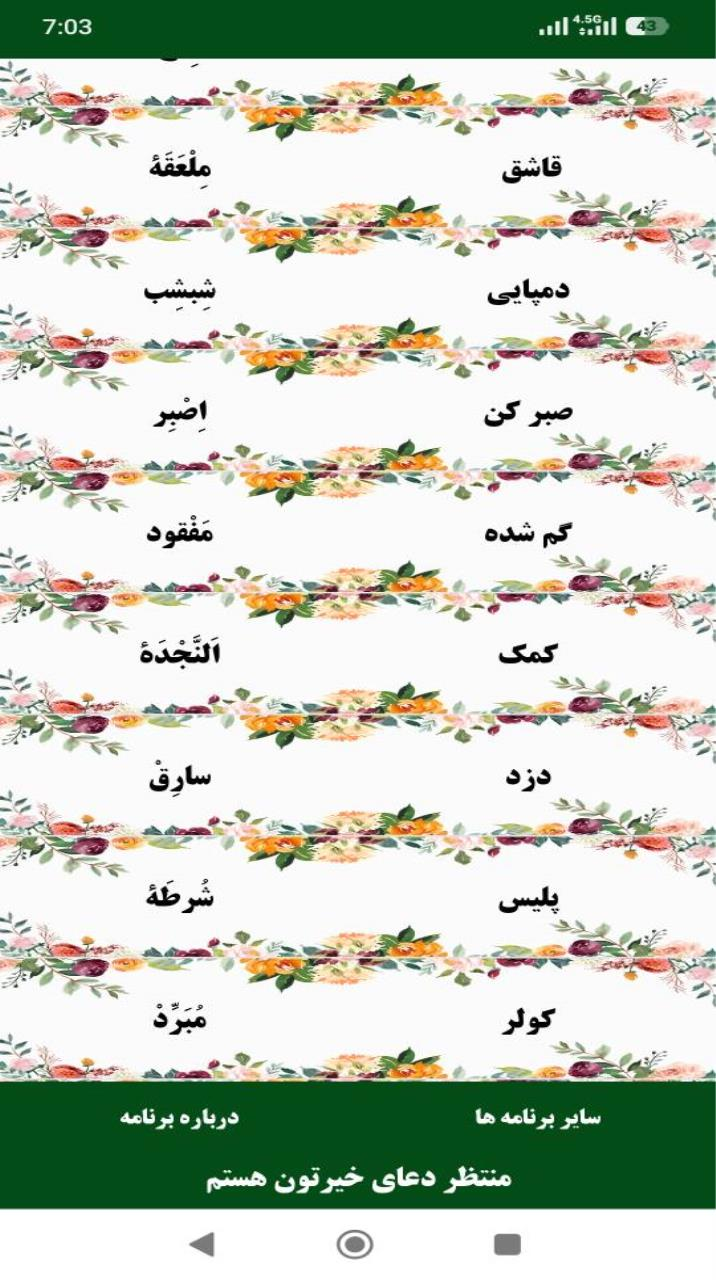
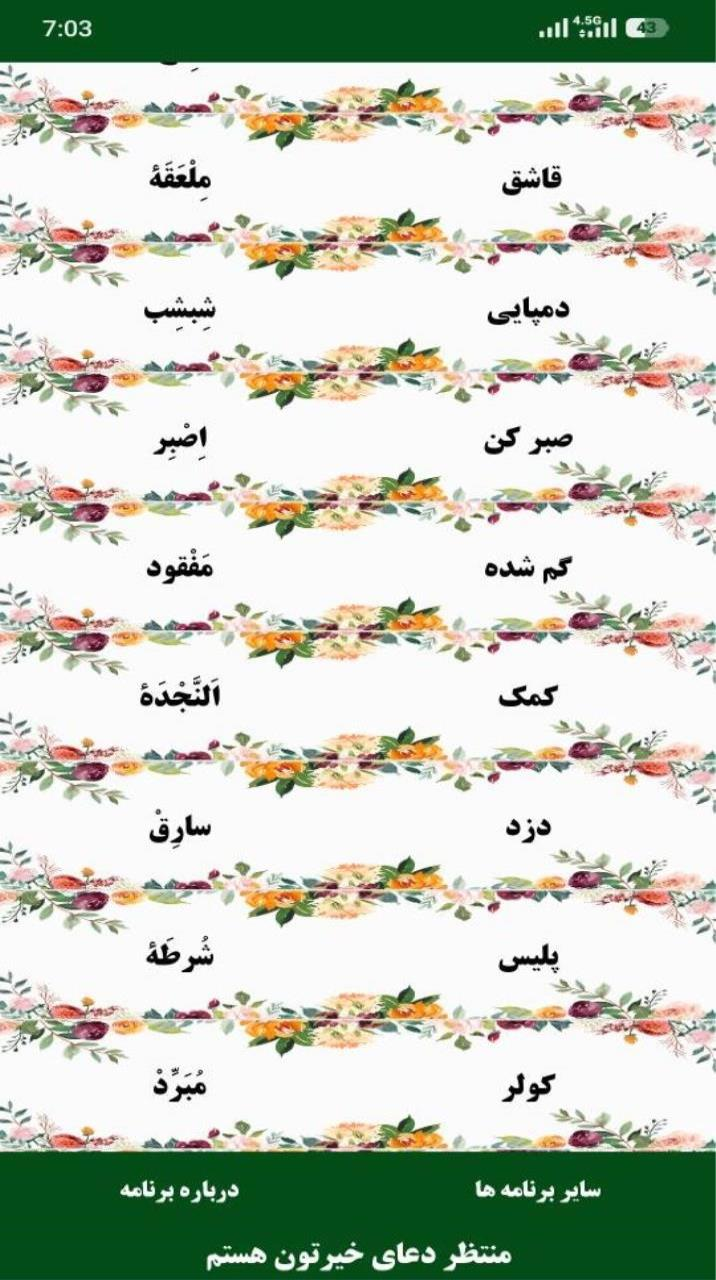
change some image and index

diff --git a/index.html b/index.html
@@ -570,10 +570,10 @@
           </div>
         </div>
 
+        <!-- متن با رنگ مشکی برای بخش آخر -->
         <p class="itemDescription">
-          ذکر شمار حرفه ای با قابلیت <span class="spanRed">آمدن روی صفحه</span>
-          که شما می توانید تا <span class="spanGreen">99999999999999</span> ذکر بگویید
-          و تعداد ذکر ها <span class="spanGreen">ذخیره</span> می شوند
+          ذکر شمار حرفهای با قابلیت <span class="spanRed">آمدن روی صفحه</span>،
+          که شما میتوانید <span class="spanGreen">همزمانی که دارید ذکری را میخوانید</span> <span style="color: black;">روی صفحه تعدادش را اضافه کنید</span>
         </p>
 
         <a class="itembtn" target="_blank" rel="noopener noreferrer"
